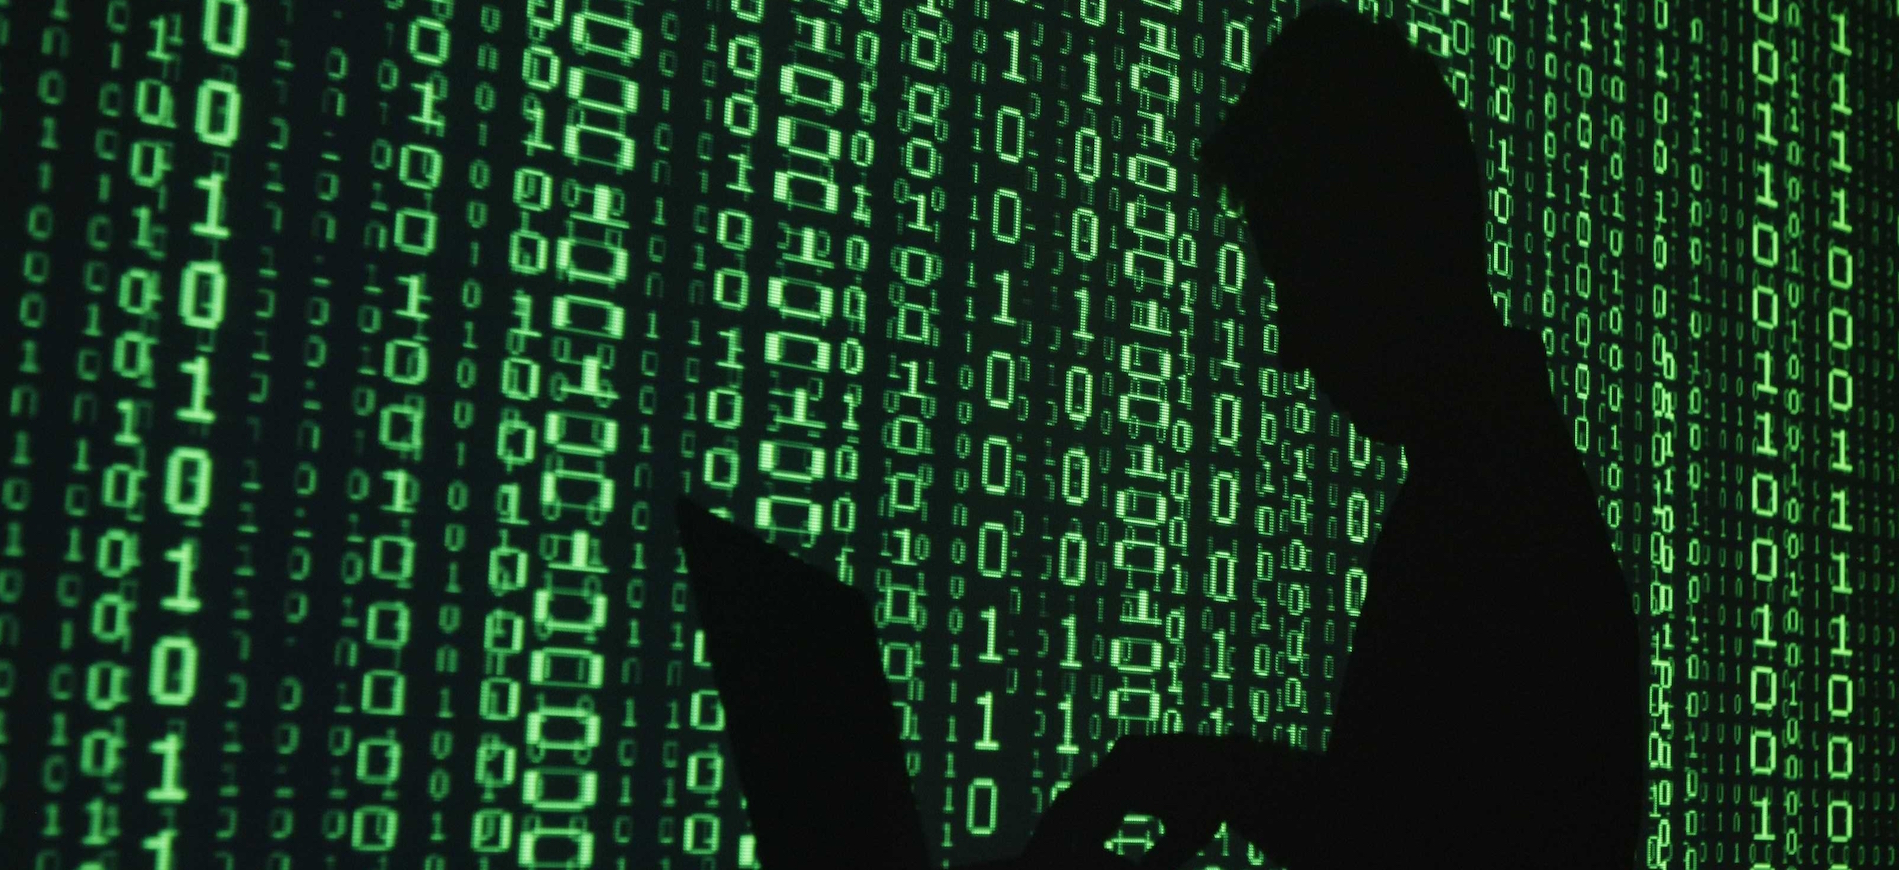
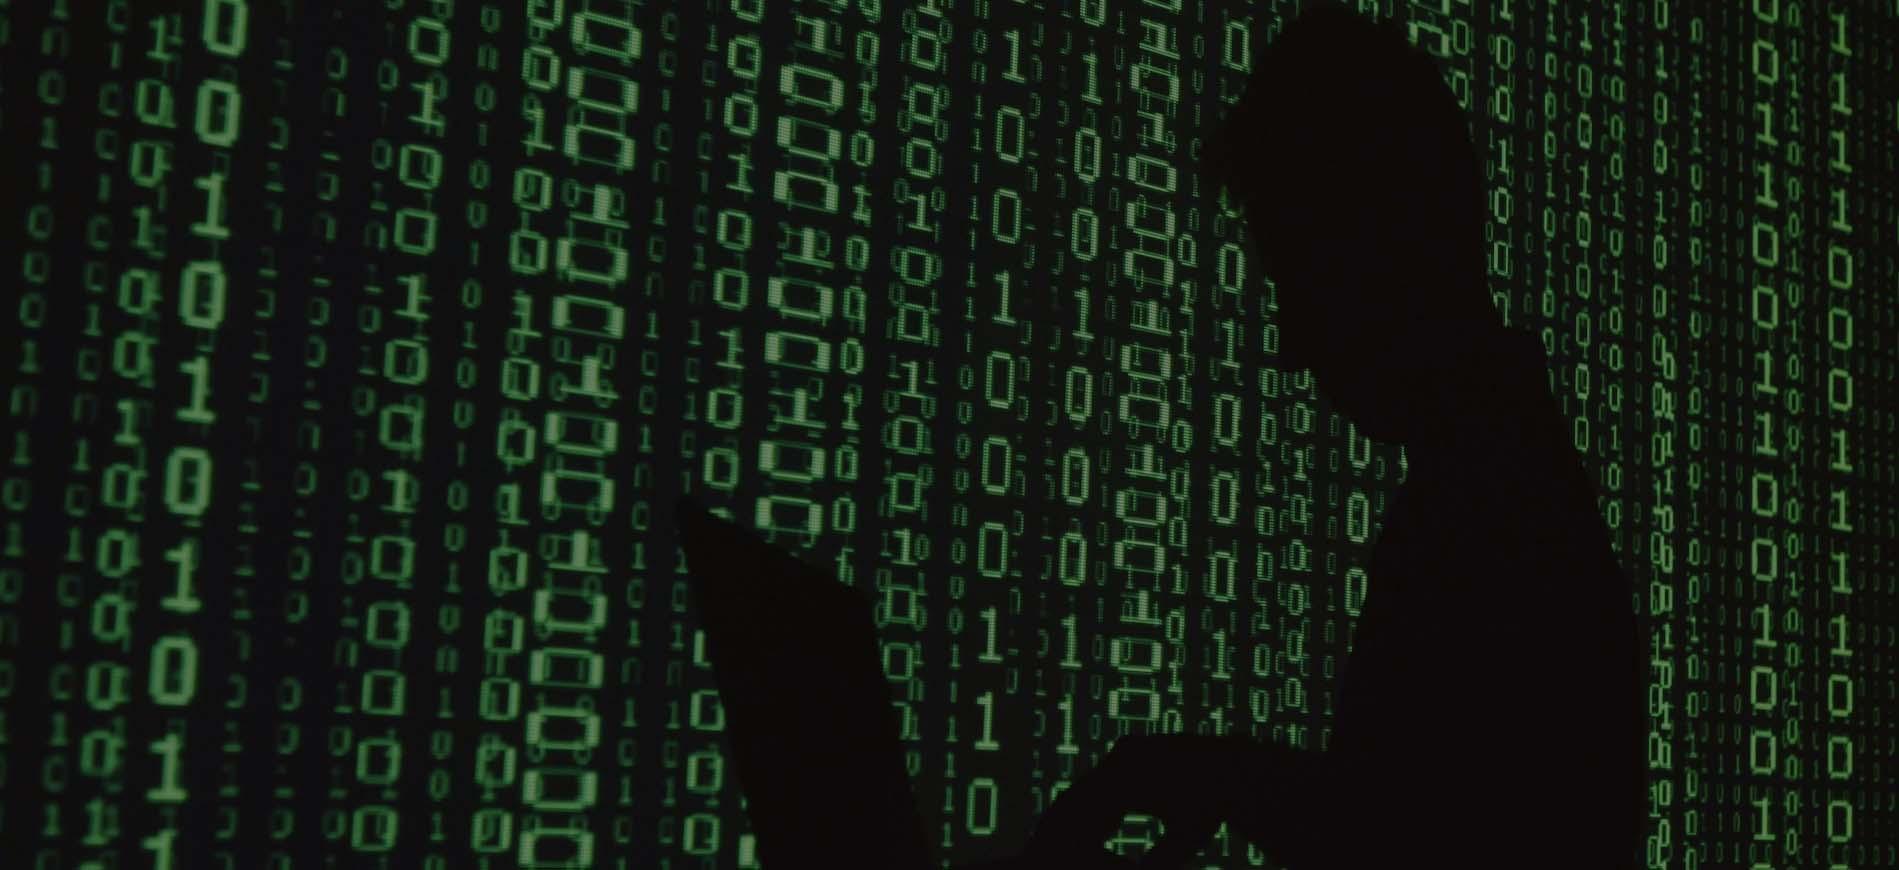
modify background images;add back to top for Post layout

Changed region(s): [[0.0, 0.0, 0.7457, 1.0], [0.7146, 0.0, 1.0, 1.0], [0.5592, 0.931, 0.6835, 1.0]]

diff --git a/_layouts/post.html b/_layouts/post.html
@@ -15,7 +15,7 @@ layout: default
 	/*导航*/
 	.BlogAnchor {
 	    background: #ffffff;
-	    padding: 10px;
+	    padding: 0px;
 	    line-height: 180%;
 	}
 	.BlogAnchor p {
@@ -28,10 +28,10 @@ layout: default
 	}
 	.BlogAnchor li{
 	    text-indent: 20px;
-	    font-size: 14px;
+	    font-size: 18px;
 	}
 	#AnchorContentToggle {
-	    font-size: 14px;
+	    font-size: 18px;
 	    font-weight: normal;
 	    color: #FFF;
 	    display: inline-block;
@@ -49,6 +49,27 @@ layout: default
 	}
 	
 
+	.ScrollTop {
+		width: 50px;
+		height: 50px;
+		background: black;
+		-moz-border-radius: 25px;
+		-webkit-border-radius: 25px;
+		border-radius: 25px;
+		position:fixed;
+		    bottom:18px;
+		    right:30px; 
+			-webkit-box-shadow: #666 0px 0px 5px;  
+			   -moz-box-shadow: #666 0px 0px 5px;  
+			   box-shadow: #666 0px 0px 5px; 
+	}
+	.ScrollTop p {
+	    font-size: 15px;
+	    color: #ffffff;
+		position:fixed;
+		    bottom:0px;
+		    right:40px;
+	}
 	
 </style>
 <header class="intro-header" >
@@ -94,6 +115,11 @@ layout: default
     <div class="AnchorContent" id="AnchorContent"> </div>
 </div>
 
+<div class="ScrollTop">
+    <p>
+        <b id="ScrollTopToggle" title="顶部" style="cursor:pointer;">Top</b>
+    </p>
+</div>
 				{{ content }}
 
                 <hr>
@@ -195,7 +221,7 @@ console.log($);
 $(".container").find("h2,h3,h4,h5,h6").each(function(i,item){
     var tag = $(item).get(0).localName;
     $(item).attr("id","wow"+i);
-    $("#AnchorContent").append('<li><a class="new'+tag+' anchor-link" onclick="return false;" href="#" link="#wow'+i+'">'+(i+1)+" · "+$(this).text()+'</a></li>');
+    $("#AnchorContent").append('<li><a class="new'+tag+' anchor-link" onclick="return false;" href="#" link="#wow'+i+'">'+$(this).text()+'</a></li>');
     $(".newh2").css("margin-left",0);
     $(".newh3").css("margin-left",20);
     $(".newh4").css("margin-left",40);
@@ -218,6 +244,10 @@ $("#AnchorContentToggle").click(function(){
 $(".anchor-link").click(function(){
     $("html,body").animate({scrollTop: $($(this).attr("link")).offset().top}, 1000);
 });
+
+
+
+$('.ScrollTop').click(function(){$('html,body').animate({scrollTop: '0px'}, 800);});
 </script>
 {% if site.duoshuo_username %}
 <!-- 多说公共JS代码 start (一个网页只需插入一次) -->

diff --git a/_includes/head.html b/_includes/head.html
@@ -5,7 +5,7 @@
     <meta name="viewport" content="width=device-width, initial-scale=1">
     <meta name="description" content="{{ site.description }}">
     <meta name="keyword"  content="{{ site.keyword }}">
-    <link rel="shortcut icon" href="img/common/favicon.ico">
+    <link rel="shortcut icon" href="http://daiweilai.github.io/img/common/favicon.ico">
 	
 	<link href="http://daiweilai.github.io//css/prism.css" rel="stylesheet" />
 	<script src="http://daiweilai.github.io//js/prism.js"></script>
